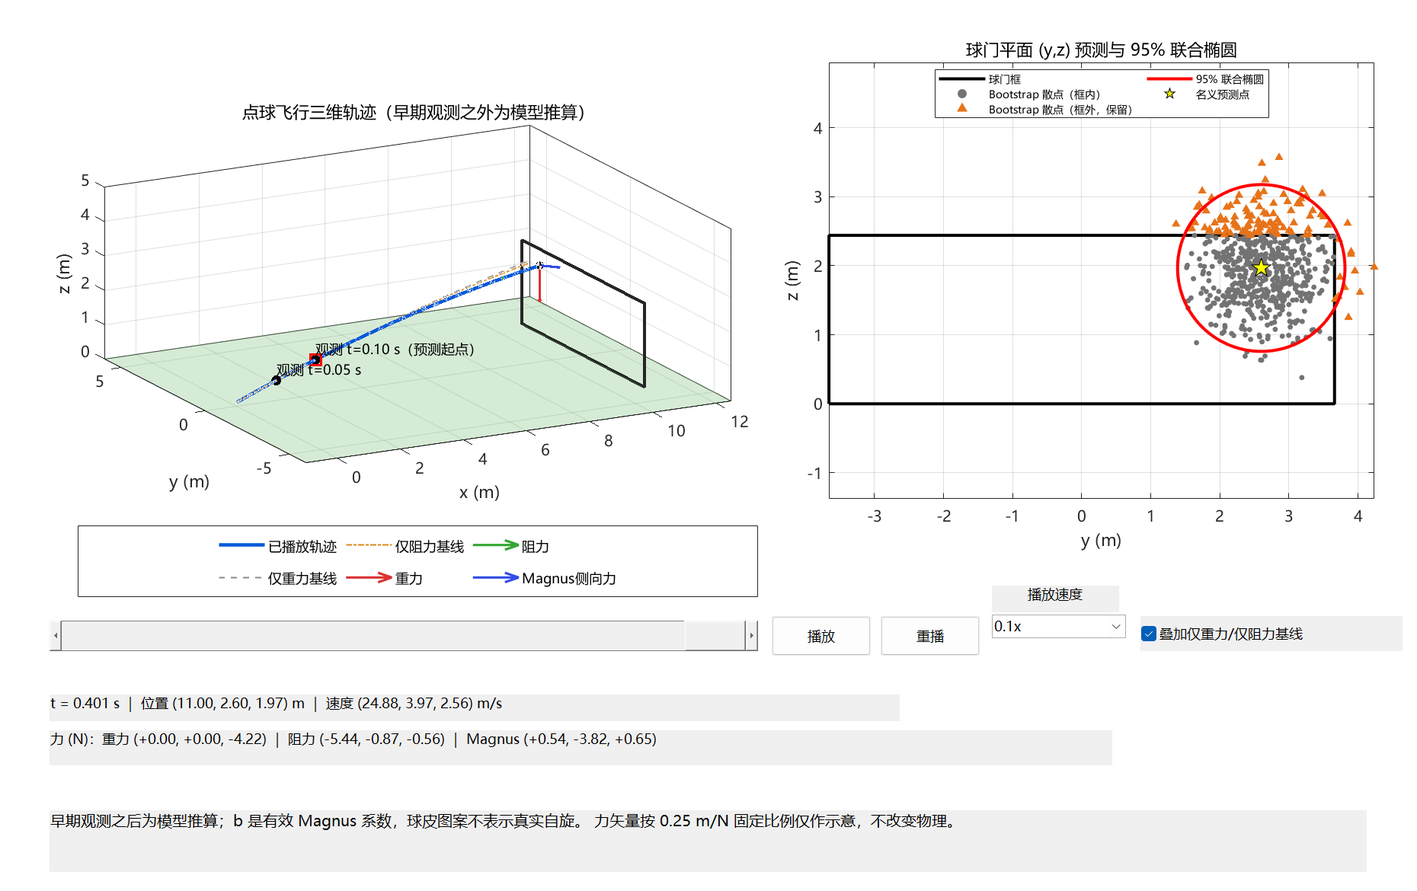
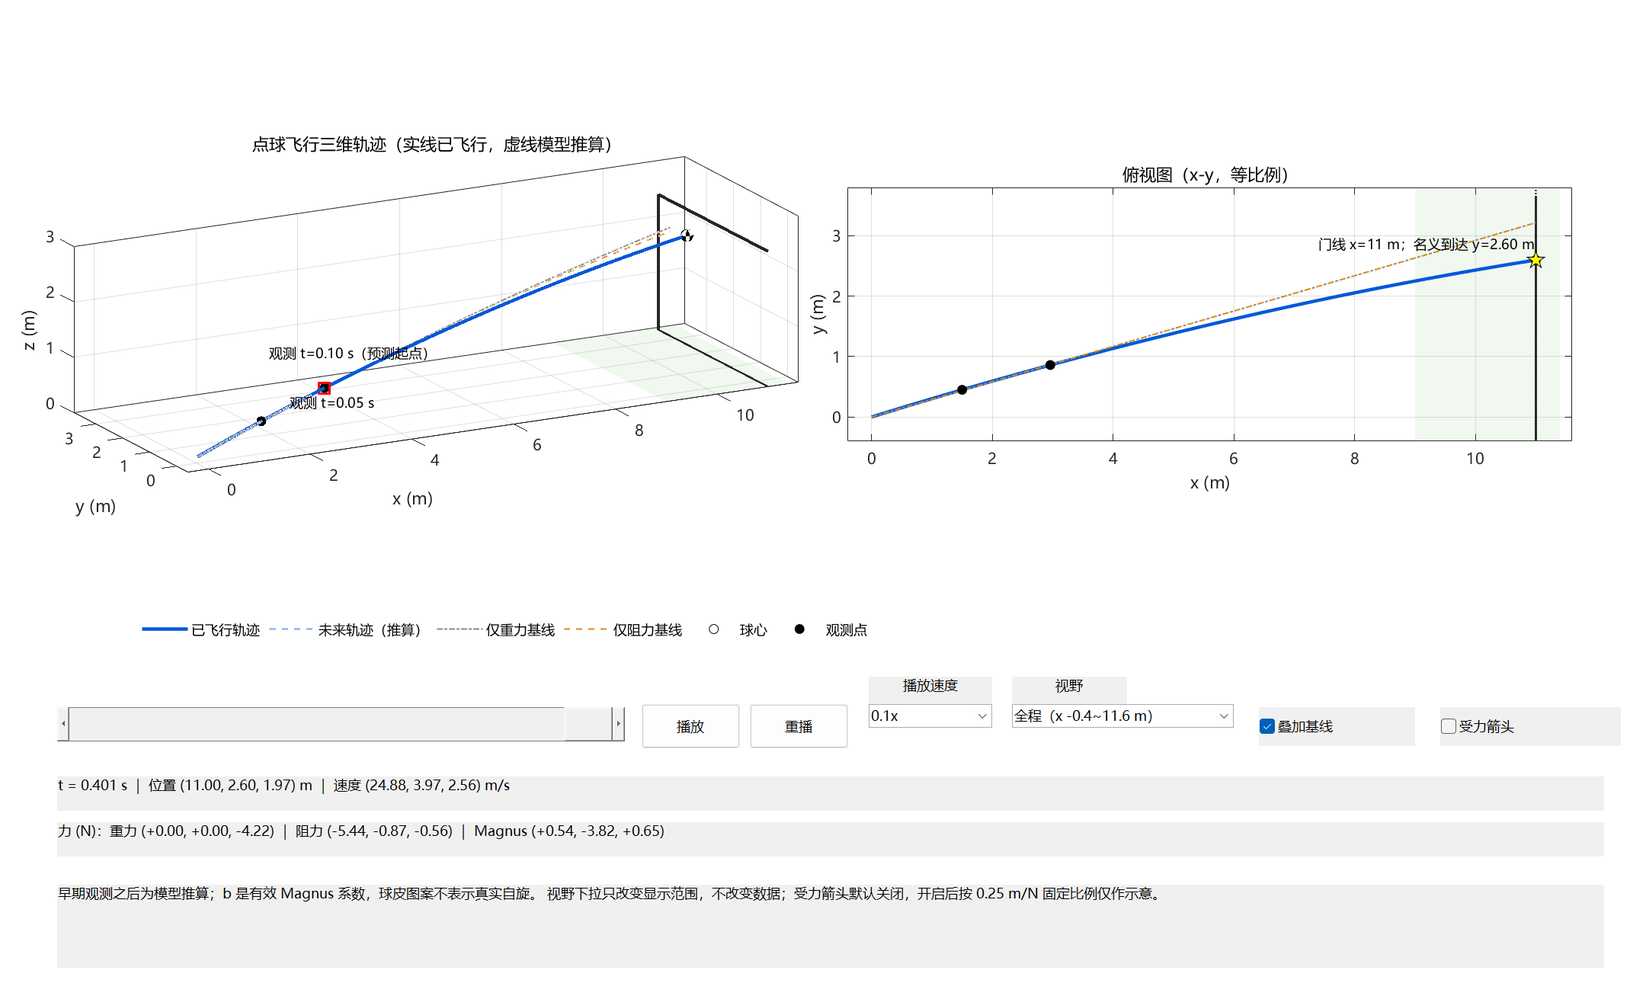
matlab仿真修改第一版，把右侧预测图删除

diff --git a/仿真/Matlab版/penalty_view.m b/仿真/Matlab版/penalty_view.m
@@ -46,92 +46,134 @@ assert(ePos < 1e-7 && eT < 1e-7, '终点与已有 JSON 不一致（%.3g m / %.3g
 pG = predictPlane(thetaG,cfg,xPlane,Tmax); pD = predictPlane(thetaD,cfg,xPlane,Tmax);
 SG = deval(pG.sol,linspace(0,tEndOf(pG,Tmax),160))'; SD = deval(pD.sol,linspace(0,tEndOf(pD,Tmax),160))';
 
-% ---------- 95% 联合椭圆（eig(C) 与固定 chi2 常数） ----------
-C = (res.uncertainty.C + res.uncertainty.C')/2;
-[Vv,Dd] = eig(C); [dd,ord] = sort(diag(Dd),'descend'); Vv = Vv(:,ord);
-axE = sqrt(5.991464547*max(dd,0)); te = linspace(0,2*pi,200);
-E = Vv*diag(axE)*[cos(te);sin(te)] + [res.prediction.yGoal;res.prediction.zGoal];
-bs = res.bootstrap.samples; nBS = numel(bs);
-bsY = nan(nBS,1); bsZ = bsY; bsOK = false(nBS,1);
-for k = 1:nBS  % JSON 中 null 解码为空，逐项容错读取
-    if ~isempty(bs(k).yGoal), bsY(k) = bs(k).yGoal; end
-    if ~isempty(bs(k).zGoal), bsZ(k) = bs(k).zGoal; end
-    if ~isempty(bs(k).ok), bsOK(k) = logical(bs(k).ok); end
-end
-bsValid = bsOK & isfinite(bsY) & isfinite(bsZ);
-inFrame = abs(bsY) <= goalHW & bsZ >= 0 & bsZ <= goalH;
-
-% ---------- 界面（经典 figure + uicontrol，export 时不可见） ----------
-fig = figure('Name','点球动态仿真','Color','w','Units','pixels','Position',[60 60 1240 780]);
+% ---------- 界面（三维 + 俯视双视图，export 时不可见） ----------
+fig = figure('Name','点球动态仿真','Color','w','Units','pixels','Position',[40 40 1440 860]);
 if isExport, set(fig,'Visible','off'); end
-ax3 = axes(fig,'Position',[0.055 0.48 0.48 0.38]);
-ax2 = axes(fig,'Position',[0.585 0.44 0.385 0.49]);
+ax3 = axes(fig,'Position',[0.045 0.42 0.44 0.52],'Tag','Trajectory3D');
+axTop = axes(fig,'Position',[0.515 0.42 0.44 0.52],'Tag','TrajectoryTop');
 hold(ax3,'on'); grid(ax3,'on'); box(ax3,'on'); view(ax3,-28,16);
-set([ax3 ax2],'FontName','Microsoft YaHei');
-patch(ax3,[-1 12.5 12.5 -1],[-6 -6 6 6],[0 0 0 0],[0.42 0.72 0.42],'EdgeColor','none','FaceAlpha',0.28);
-plot3(ax3,xPlane*ones(1,5),[-goalHW goalHW goalHW -goalHW -goalHW],[0 0 goalH goalH 0], ...
-    '-','Color',[0.15 0.15 0.15],'LineWidth',2);
-plot3(ax3,SAll(:,1),SAll(:,2),SAll(:,3),'--','Color',[0.55 0.68 0.9], ...
-    'LineWidth',1,'DisplayName','模型完整轨迹（推算/回放）');
+hold(axTop,'on'); grid(axTop,'on'); box(axTop,'on');
+set([ax3 axTop],'FontName','Microsoft YaHei');
+
+% 草坪：仅球门附近小范围淡色
+patch(ax3,[9 11.4 11.4 9],[-0.4 -0.4 3.8 3.8],[0 0 0 0],[0.42 0.72 0.42], ...
+    'FaceColor',[0.42 0.72 0.42],'EdgeColor','none','FaceAlpha',0.10, ...
+    'HandleVisibility','off');
+patch(axTop,[9 11.4 11.4 9],[-0.4 -0.4 3.8 3.8],[0.42 0.72 0.42], ...
+    'EdgeColor','none','FaceAlpha',0.10,'HandleVisibility','off');
+
+% 球门：只画落在视野内的相关部分（右立柱、横梁、门线）
+plot3(ax3,xPlane*[1 1],goalHW*[1 1],[0 goalH],'-','Color',[0.15 0.15 0.15], ...
+    'LineWidth',2,'HandleVisibility','off');
+plot3(ax3,xPlane*[1 1],[-0.4 goalHW],goalH*[1 1],'-','Color',[0.15 0.15 0.15], ...
+    'LineWidth',2,'HandleVisibility','off');
+plot3(ax3,xPlane*[1 1],[-0.4 goalHW],[0 0],'-','Color',[0.15 0.15 0.15], ...
+    'LineWidth',1.2,'HandleVisibility','off');
+plot(axTop,xPlane*[1 1],[-0.4 goalHW],'-','Color',[0.15 0.15 0.15], ...
+    'LineWidth',1.5,'HandleVisibility','off');
+
+% 完整 Magnus 轨迹：已飞行实线 / 未来浅蓝虚线（hFuture 初始即完整轨迹）
+hFuture = plot3(ax3,SAll(:,1),SAll(:,2),SAll(:,3),'--','Color',[0.55 0.72 0.92], ...
+    'LineWidth',1.2,'DisplayName','未来轨迹');
 hPlayed = plot3(ax3,SAll(1,1),SAll(1,2),SAll(1,3),'-','Color',[0 0.35 0.85], ...
-    'LineWidth',2.2,'DisplayName','已播放轨迹');
-hG = plot3(ax3,SG(:,1),SG(:,2),SG(:,3),'--','Color',[0.55 0.55 0.55], ...
-    'LineWidth',1,'DisplayName','仅重力基线（JSON v0）','Visible','off');
-hD = plot3(ax3,SD(:,1),SD(:,2),SD(:,3),'-.','Color',[0.85 0.55 0.1], ...
-    'LineWidth',1,'DisplayName','仅阻力基线（JSON v0/Cd）','Visible','off');
-plot3(ax3,obs(:,1),obs(:,2),obs(:,3),'ko','MarkerFaceColor','k','MarkerSize',6,'DisplayName','观测点');
+    'LineWidth',2.2,'DisplayName','已飞行轨迹');
+hG = plot3(ax3,SG(:,1),SG(:,2),SG(:,3),'-.','Color',[0.55 0.55 0.55], ...
+    'LineWidth',1,'DisplayName','仅重力基线','Visible','off');
+hD = plot3(ax3,SD(:,1),SD(:,2),SD(:,3),'--','Color',[0.85 0.55 0.1], ...
+    'LineWidth',1,'DisplayName','仅阻力基线','Visible','off');
+hFutureTop = plot(axTop,SAll(:,1),SAll(:,2),'--','Color',[0.55 0.72 0.92], ...
+    'LineWidth',1.2,'HandleVisibility','off');
+hPlayedTop = plot(axTop,SAll(1,1),SAll(1,2),'-','Color',[0 0.35 0.85], ...
+    'LineWidth',2.2,'HandleVisibility','off');
+hGTop = plot(axTop,SG(:,1),SG(:,2),'-.','Color',[0.55 0.55 0.55], ...
+    'LineWidth',1,'Visible','off','HandleVisibility','off');
+hDTop = plot(axTop,SD(:,1),SD(:,2),'--','Color',[0.85 0.55 0.1], ...
+    'LineWidth',1,'Visible','off','HandleVisibility','off');
+
+% 观测点（两处文字偏移不同，避免互相遮挡）
+hObs = plot3(ax3,obs(:,1),obs(:,2),obs(:,3),'ko','MarkerFaceColor','k', ...
+    'MarkerSize',6,'DisplayName','观测点');
 plot3(ax3,obs(2,1),obs(2,2),obs(2,3),'rs','MarkerSize',9,'LineWidth',1.5, ...
-    'DisplayName','0.1 s 预测起点');
-text(ax3,obs(1,1),obs(1,2),obs(1,3)+0.35,'观测 t=0.05 s','FontName','Microsoft YaHei','FontSize',9);
-text(ax3,obs(2,1),obs(2,2),obs(2,3)+0.35,'观测 t=0.10 s（预测起点）','FontName','Microsoft YaHei','FontSize',9);
+    'HandleVisibility','off');
+plot(axTop,obs(:,1),obs(:,2),'ko','MarkerFaceColor','k','MarkerSize',6, ...
+    'HandleVisibility','off');
+text(ax3,obs(1,1)+0.10,obs(1,2)-0.85,obs(1,3)+0.55,'观测 t=0.05 s', ...
+    'FontName','Microsoft YaHei','FontSize',9,'Clipping','on');
+text(ax3,obs(2,1)-0.45,obs(2,2)+1.20,obs(2,3)+0.40,'观测 t=0.10 s（预测起点）', ...
+    'FontName','Microsoft YaHei','FontSize',9,'Clipping','on');
 % 足球：真实半径 R、固定黑白图案、不旋转（不虚构角速度）
 [Xb,Yb,Zb] = sphere(20); ang = atan2(Yb,Xb);
 Cb = 0.92*ones(size(Zb)); Cb(mod(floor((ang+pi)/(pi/4)) + (Zb>0),2)==0) = 0.04;
 hBall = surf(ax3,cfg.r0(1)+R*Xb,cfg.r0(2)+R*Yb,cfg.r0(3)+R*Zb,Cb,'EdgeColor','none', ...
-    'DisplayName','球体（半径 R=0.11 m）'); colormap(ax3,gray(64));
-sc = 0.25;  % 力矢量固定比例 m/N（仅示意，不改物理）
-hqG = quiver3(ax3,0,0,0,0,0,0,0,'Color',[0.85 0.2 0.2],'LineWidth',1.6,'DisplayName','重力矢量（0.25 m/N 示意）');
-hqD = quiver3(ax3,0,0,0,0,0,0,0,'Color',[0.2 0.65 0.2],'LineWidth',1.6,'DisplayName','阻力矢量（0.25 m/N 示意）');
-hqM = quiver3(ax3,0,0,0,0,0,0,0,'Color',[0.2 0.3 0.9],'LineWidth',1.6,'DisplayName','Magnus 矢量（0.25 m/N 示意）');
-xlabel(ax3,'x (m)'); ylabel(ax3,'y (m)'); zlabel(ax3,'z (m)'); lg3=legend(ax3,[hPlayed hG hD hqG hqD hqM],{'已播放轨迹','仅重力基线','仅阻力基线','重力','阻力','Magnus侧向力'},'FontSize',9,'NumColumns',3); set(lg3,'Units','normalized','Position',[.055 .33 .48 .08],'AutoUpdate','off');
-title(ax3,'点球飞行三维轨迹（早期观测之外为模型推算）','FontName','Microsoft YaHei');
-xlim(ax3,[-1 12.5]); ylim(ax3,[-6 6]); zlim(ax3,[0 5]); daspect(ax3,[1 1 1]);
+    'HandleVisibility','off'); colormap(ax3,gray(64));
+hCenterLegend = plot3(ax3,nan,nan,nan,'o','MarkerSize',6,'MarkerEdgeColor','k','MarkerFaceColor','w');
+hBallTop = plot(axTop,cfg.r0(1),cfg.r0(2),'o','MarkerSize',6, ...
+    'MarkerFaceColor',[0 0.35 0.85],'MarkerEdgeColor','k','HandleVisibility','off');
 
-hold(ax2,'on'); grid(ax2,'on'); box(ax2,'on');
-plot(ax2,[-goalHW goalHW goalHW -goalHW -goalHW],[0 0 goalH goalH 0],'k-','LineWidth',2, ...
-    'DisplayName','球门框');
-scatter(ax2,bsY(bsValid&inFrame),bsZ(bsValid&inFrame),12,[0.45 0.45 0.45],'filled','DisplayName','Bootstrap 散点（框内）');
-scatter(ax2,bsY(bsValid&~inFrame),bsZ(bsValid&~inFrame),24,[0.9 0.45 0.1],'^','filled','DisplayName','Bootstrap 散点（框外，保留）');
-plot(ax2,E(1,:),E(2,:),'r-','LineWidth',2,'DisplayName','95% 联合椭圆');
-plot(ax2,res.prediction.yGoal,res.prediction.zGoal,'kp','MarkerFaceColor','y','MarkerSize',13, ...
-    'DisplayName','名义预测点');
-xlabel(ax2,'y (m)'); ylabel(ax2,'z (m)'); axis(ax2,'equal');
-title(ax2,'球门平面 (y,z) 预测与 95% 联合椭圆','FontName','Microsoft YaHei');
-legend(ax2,'Location','best','FontSize',7,'NumColumns',2);
+% 受力箭头（默认关闭；开启后按 0.25 m/N 固定比例示意）
+sc = 0.25;
+hqG = quiver3(ax3,0,0,0,0,0,0,0,'Color',[0.85 0.2 0.2],'LineWidth',1.6,'HandleVisibility','off');
+hqD = quiver3(ax3,0,0,0,0,0,0,0,'Color',[0.2 0.65 0.2],'LineWidth',1.6,'HandleVisibility','off');
+hqM = quiver3(ax3,0,0,0,0,0,0,0,'Color',[0.2 0.3 0.9],'LineWidth',1.6,'HandleVisibility','off');
+set([hqG hqD hqM],'Visible','off');
 
-% ---------- 控件（底部独立区域，不遮挡 axes） ----------
-hSlider = uicontrol(fig,'Style','slider','Units','normalized','Position',[0.035 0.268 0.50 0.035], ...
-    'Min',0,'Max',pNom.tCross,'Value',0,'Callback',@cbSlider);
-hPlay = uicontrol(fig,'Style','pushbutton','Units','normalized','Position',[0.545 0.263 0.07 0.045], ...
-    'String','播放','Callback',@cbPlay,'FontName','Microsoft YaHei','FontSize',9);
-uicontrol(fig,'Style','pushbutton','Units','normalized','Position',[0.622 0.263 0.07 0.045], ...
-    'String','重播','Callback',@cbReplay,'FontName','Microsoft YaHei','FontSize',9);
-uicontrol(fig,'Style','text','Units','normalized','Position',[0.70 0.312 0.09 0.03], ...
+% 俯视图：门线 x=11 与名义到达点
+plot(axTop,xPlane*[1 1],[-0.4 3.8],':','Color',[0.2 0.2 0.2],'LineWidth',1.2, ...
+    'HandleVisibility','off');
+plot(axTop,xPlane,res.prediction.yGoal,'p','MarkerSize',12,'MarkerFaceColor','y', ...
+    'MarkerEdgeColor','k','HandleVisibility','off');
+text(axTop,xPlane-3.6,res.prediction.yGoal+0.28,sprintf('门线 x=11 m；名义到达 y=%.2f m', ...
+    res.prediction.yGoal),'FontName','Microsoft YaHei','FontSize',9);
+
+xlabel(ax3,'x (m)'); ylabel(ax3,'y (m)'); zlabel(ax3,'z (m)');
+title(ax3,'点球飞行三维轨迹（实线已飞行，虚线模型推算）','FontName','Microsoft YaHei');
+xlabel(axTop,'x (m)'); ylabel(axTop,'y (m)');
+title(axTop,'俯视图（x-y，等比例）','FontName','Microsoft YaHei');
+
+% 共享图例：放在两图下方、控件上方；只列 6 项
+lg = legend(ax3,[hPlayed hFuture hG hD hCenterLegend hObs], ...
+    {'已飞行轨迹','未来轨迹（推算）','仅重力基线','仅阻力基线','球心','观测点'}, ...
+    'Orientation','horizontal','NumColumns',6,'FontSize',9);
+set(lg,'Units','normalized','Position',[0.045 0.335 0.91 0.05], ...
+    'AutoUpdate','off','Box','off');
+
+% ---------- 控件（底部控制区，不遮挡 axes） ----------
+hSlider = uicontrol(fig,'Style','slider','Tag','TimeSlider','Units','normalized', ...
+    'Position',[0.035 0.245 0.345 0.035],'Min',0,'Max',pNom.tCross,'Value',0, ...
+    'Callback',@cbSlider);
+hPlay = uicontrol(fig,'Style','pushbutton','Tag','PlayButton','Units','normalized', ...
+    'Position',[0.390 0.238 0.060 0.045],'String','播放','Callback',@cbPlay, ...
+    'FontName','Microsoft YaHei','FontSize',9);
+uicontrol(fig,'Style','pushbutton','Tag','ReplayButton','Units','normalized', ...
+    'Position',[0.456 0.238 0.060 0.045],'String','重播','Callback',@cbReplay, ...
+    'FontName','Microsoft YaHei','FontSize',9);
+uicontrol(fig,'Style','text','Units','normalized','Position',[0.528 0.283 0.075 0.028], ...
     'String','播放速度','FontName','Microsoft YaHei','FontSize',9);
-uicontrol(fig,'Style','popupmenu','Units','normalized','Position',[0.70 0.265 0.095 0.045], ...
-    'String',{'0.05x','0.1x','0.25x','1x'},'Value',2,'Callback',@cbSpeed, ...
-    'FontName','Microsoft YaHei','FontSize',9);
-hCmp = uicontrol(fig,'Style','checkbox','Units','normalized','Position',[0.805 0.268 0.185 0.04], ...
-    'String','叠加仅重力/仅阻力基线','Value',0,'Callback',@cbCmp, ...
-    'FontName','Microsoft YaHei','FontSize',9);
-hTL = uicontrol(fig,'Style','text','Units','normalized','Position',[0.035 0.19 0.60 0.03], ...
+uicontrol(fig,'Style','popupmenu','Tag','SpeedSelect','Units','normalized', ...
+    'Position',[0.528 0.238 0.075 0.045],'String',{'0.05x','0.1x','0.25x','1x'}, ...
+    'Value',2,'Callback',@cbSpeed,'FontName','Microsoft YaHei','FontSize',9);
+uicontrol(fig,'Style','text','Units','normalized','Position',[0.615 0.283 0.070 0.028], ...
+    'String','视野','FontName','Microsoft YaHei','FontSize',9);
+uicontrol(fig,'Style','popupmenu','Tag','ViewSelect','Units','normalized', ...
+    'Position',[0.615 0.238 0.135 0.045], ...
+    'String',{'全程（x -0.4~11.6 m）','末段放大（x 7~11.6 m）'},'Value',1, ...
+    'Callback',@cbView,'FontName','Microsoft YaHei','FontSize',9);
+hView = findobj(fig,'Tag','ViewSelect');
+hCmp = uicontrol(fig,'Style','checkbox','Tag','BaselineToggle','Units','normalized', ...
+    'Position',[0.765 0.240 0.095 0.040],'String','叠加基线','Value',0, ...
+    'Callback',@cbCmp,'FontName','Microsoft YaHei','FontSize',9);
+hForce = uicontrol(fig,'Style','checkbox','Tag','ForceToggle','Units','normalized', ...
+    'Position',[0.875 0.240 0.110 0.040],'String','受力箭头','Value',0, ...
+    'Callback',@cbForce,'FontName','Microsoft YaHei','FontSize',9);
+hTL = uicontrol(fig,'Style','text','Units','normalized','Position',[0.035 0.175 0.94 0.035], ...
     'String','t = 0 s','FontName','Microsoft YaHei','FontSize',9,'HorizontalAlignment','left');
-hFL = uicontrol(fig,'Style','text','Units','normalized','Position',[0.035 0.14 0.75 0.04], ...
+hFL = uicontrol(fig,'Style','text','Units','normalized','Position',[0.035 0.128 0.94 0.035], ...
     'String','力 (N)','FontName','Microsoft YaHei','FontSize',9,'HorizontalAlignment','left');
-uicontrol(fig,'Style','text','Units','normalized','Position',[0.035 0.02 0.93 0.07], ...
+uicontrol(fig,'Style','text','Units','normalized','Position',[0.035 0.015 0.94 0.085], ...
     'String',['早期观测之后为模型推算；b 是有效 Magnus 系数，球皮图案不表示真实自旋。' ...
-    ' 力矢量按 0.25 m/N 固定比例仅作示意，不改变物理。'], ...
-    'FontName','Microsoft YaHei','FontSize',10,'HorizontalAlignment','left');
+    ' 视野下拉只改变显示范围，不改变数据；受力箭头默认关闭，开启后按 0.25 m/N 固定比例仅作示意。'], ...
+    'FontName','Microsoft YaHei','FontSize',9,'HorizontalAlignment','left');
+applyView(1);
 playing = false; speed = 0.1; t0 = 0; tClock = tic; timerH = [];
 set(fig,'CloseRequestFcn',@cbClose); updateFrame(0);
 if ~isExport
@@ -146,7 +188,9 @@ end
 % ---------- export：GIF、最终 PNG、时序 CSV、验证 JSON ----------
 gifPath = fullfile(outImgDir,'点球物理仿真.gif'); pngPath = fullfile(outImgDir,'点球仿真全景.png');
 csvPath = fullfile(outDataDir,'点球仿真时序.csv'); verPath = fullfile(outDataDir,'点球仿真验证.json');
-set([hG hD],'Visible','on'); set(hCmp,'Value',1);
+set(hCmp,'Value',1); cbCmp(hCmp);               % 导出：基线开启
+set(hForce,'Value',0); cbForce(hForce);         % 导出：箭头关闭
+set(hView,'Value',1); cbView(hView);             % 导出：全程
 nF = 80; gifDur = 4; tmpDir = [tempname '_Frames']; mkdir(tmpDir);
 for k = 1:nF
     updateFrame(tAll(end)*(k-1)/(nF-1)); drawnow;
@@ -181,6 +225,10 @@ ver.theta = theta;
 ver.effectiveMagnusCoefficient = struct('bx',cfg.bx,'by',theta(5),'bz',theta(6),'unit','1/s');
 ver.baselines = struct('gravityV0',thetaG(1:3),'dragV0Cd',thetaD([1 2 3 4]));
 ver.forceArrowScale_mPerN = sc;
+ver.viewLayout = '3D+XY'; ver.predictionPanel = false;
+ver.viewRanges = struct('full',struct('x',[-0.4 11.6],'y',[-0.4 3.8],'z',[0 3]), ...
+    'zoom',struct('x',[7 11.6],'y',[1.3 3.7],'z',[1.2 2.8]));
+ver.viewUsedExport = 'full';
 ver.units = '位置 m；速度 m/s；时间 s；力 N';
 ver.frames = nF; ver.gifNominalDuration_s = gifDur; ver.gifDelay_s = gifDur/nF;
 ver.outputs = struct('gif',gifPath,'png',pngPath,'csv',csvPath,'json',verPath);
@@ -197,8 +245,15 @@ fprintf('[penalty_view] export 完成：观测误差 %.3g m，终点误差 %.3g 
     function updateFrame(tNow)
         tNow = min(max(tNow,0),tAll(end)); sNow = deval(pNom.sol,tNow)';
         set(hBall,'XData',sNow(1)+R*Xb,'YData',sNow(2)+R*Yb,'ZData',sNow(3)+R*Zb);
+        set(hBallTop,'XData',sNow(1),'YData',sNow(2));
+        % 过去实线：到 tNow 为止，末点追加当前点；未来虚线：从当前点到终点，不重复覆盖
         k = find(tAll <= tNow + 1e-12,1,'last'); if isempty(k), k = 1; end
-        set(hPlayed,'XData',SAll(1:k,1),'YData',SAll(1:k,2),'ZData',SAll(1:k,3));
+        Spast = [[SAll(1:k,1);sNow(1)],[SAll(1:k,2);sNow(2)],[SAll(1:k,3);sNow(3)]];
+        Sfut = [[sNow(1);SAll(k+1:end,1)],[sNow(2);SAll(k+1:end,2)],[sNow(3);SAll(k+1:end,3)]];
+        set(hPlayed,'XData',Spast(:,1),'YData',Spast(:,2),'ZData',Spast(:,3));
+        set(hFuture,'XData',Sfut(:,1),'YData',Sfut(:,2),'ZData',Sfut(:,3));
+        set(hPlayedTop,'XData',Spast(:,1),'YData',Spast(:,2));
+        set(hFutureTop,'XData',Sfut(:,1),'YData',Sfut(:,2));
         set(hSlider,'Value',tNow);
         [~,F] = ball_rhs(tNow,sNow(:),theta,cfg);
         set(hqG,'XData',sNow(1),'YData',sNow(2),'ZData',sNow(3),'UData',sc*F.gravity(1),'VData',sc*F.gravity(2),'WData',sc*F.gravity(3));
@@ -209,6 +264,28 @@ fprintf('[penalty_view] export 完成：观测误差 %.3g m，终点误差 %.3g 
         set(hFL,'String',sprintf(['力 (N)：重力 (%+.2f, %+.2f, %+.2f) ｜ ' ...
             '阻力 (%+.2f, %+.2f, %+.2f) ｜ Magnus (%+.2f, %+.2f, %+.2f)'], ...
             F.gravity,F.drag,F.magnus));
+    end
+
+    function applyView(idx)
+        % 只改变显示范围，不改变任何数据
+        if idx == 1
+            xr = [-0.4 11.6]; yr = [-0.4 3.8]; zr = [0 3];
+        else
+            xr = [7 11.6];    yr = [1.3 3.7]; zr = [1.2 2.8];
+        end
+        xlim(ax3,xr); ylim(ax3,yr); zlim(ax3,zr);
+        pbaspect(ax3,[diff(xr) diff(yr) diff(zr)]);   % 1:1:1 单位比例，量程不被拉伸
+        xlim(axTop,xr); ylim(axTop,yr);
+        pbaspect(axTop,[diff(xr) diff(yr) 1]);        % 俯视等比例，量程保持不变
+    end
+
+    function cbView(src,~)
+        applyView(get(src,'Value'));
+    end
+
+    function cbForce(src,~)
+        onoff = 'off'; if get(src,'Value'), onoff = 'on'; end
+        set([hqG hqD hqM],'Visible',onoff);
     end
 
     function cbPlay(~,~)
@@ -248,7 +325,7 @@ fprintf('[penalty_view] export 完成：观测误差 %.3g m，终点误差 %.3g 
 
     function cbCmp(src,~)
         onoff = 'off'; if get(src,'Value'), onoff = 'on'; end
-        set([hG hD],'Visible',onoff);
+        set([hG hD hGTop hDTop],'Visible',onoff);  % 三维与俯视图同步
     end
 
     function cbClose(~,~)

diff --git a/latex/knowledge/B题建模与验证.md b/latex/knowledge/B题建模与验证.md
@@ -94,12 +94,16 @@ MATLAB主入口为 `仿真/Matlab版/penalty.m`：函数文件名采用MATLAB合
 
 动态演示采用已安装的MATLAB R2024a原生三维绘图。计算对象仍是球心状态r、v，球体表面是显示用途；不通过随意设定球皮旋转来暗示测得了自旋。主计算与演示共同调用 `仿真/Matlab版/ball_rhs.m`，使重力、平方阻力和有效Magnus项保持同一来源。
 
-从已拟合初速度出发积分牛顿方程，再按播放时间查询积分解，逐帧更新球心、已飞行轨迹和力箭头。改变播放速度只改变显示速度，不改变积分的物理时间。力箭头使用固定的显示比例，数值面板给出牛顿单位。球门平面图同时显示拟合落点、局部联合95%区域和保留框外点的bootstrap分布，以便同时理解“轨迹怎样弯曲”和“预测有多不确定”。
+从已拟合初速度出发积分牛顿方程，再按播放时间查询积分解，逐帧更新球心、已飞行轨迹和力箭头。改变播放速度只改变显示速度，不改变积分的物理时间。力箭头使用固定的显示比例，数值面板给出牛顿单位。演示采用同步三维视图和x-y俯视图；不确定性仍在正式计算和论文中讨论，动态界面专注轨迹细节。
 
-浅色完整曲线是模型推算，不是额外测得的数据。两个实测坐标保持原值，对照基线各自采用已有拟合参数。三条模型曲线的差异体现受力假设的影响，不能当成三个真实射门的比较。完整模型的轨迹在观测之外仍受模型假设限制。
+浅色虚线表示尚未播放的模型推算段，深色实线表示已播放段，两段只在当前球心相接，避免重复覆盖。两个实测坐标保持原值，对照基线各自采用已有拟合参数。三条模型曲线的差异体现受力假设的影响，不能当成三个真实射门的比较。完整模型的轨迹在观测之外仍受模型假设限制。
 
 交互入口：在项目根的MATLAB命令窗口执行 `addpath('仿真/Matlab版'); penalty_view;`。导出入口为 `penalty_view('export')`，生成中文名GIF、PNG与时序数据；不重新反演，不覆盖论文计算结果。仿真图是教学演示，论文正式配图仍使用原来的无标题图。
 
 图形接口参考MathWorks官方文档：[timer](https://www.mathworks.com/help/matlab/ref/timer.html)、[getframe](https://www.mathworks.com/help/matlab/ref/getframe.html)。GUI内部定时器只负责播放调度，数值轨迹由ODE积分给出；关闭窗口应释放其自己的定时器。
 
 动态仿真已实际运行验证：三力之和/质量与ODE加速度一致；观测位置最大偏差2.15e-11 m，落点相对正式JSON偏差1.37e-11 m，时刻偏差5.35e-13 s。已检查拖动、暂停、继续、播放完成、比较基线开关、关闭清理；GIF为80帧约4秒，时序CSV为80行。上述小偏差只说明显示与计算一致，不是现实预测精度。
+
+视野可在全程与末段放大之间切换；两视图同步缩放真实坐标，不人为平移基线或放大曲率。受力箭头默认隐藏，按需打开；比较基线开关同时作用于三维与俯视图。
+
+双视图版已验证：仅有三维和俯视两个坐标区，0.10 s时实线末端与虚线起点重合于题给位置；末段放大与全程切换同步；基线/箭头开关、暂停续播、重播和关闭清理通过。导出仍为80帧，名义轨迹观测误差和终点偏差与此前一致。两条基线在俯视图中仍可能自然重合，因为重力和沿速度方向的阻力不会单独产生横向转弯，不应人为错开曲线。

diff --git a/项目进度/项目进度.md b/项目进度/项目进度.md
@@ -1,6 +1,6 @@
 # UPC 项目进度
 
-最后更新：2026-11-07 10:38（北京时间）
+最后更新：2026-11-07（北京时间）
 
 当前阶段：已选择B题，完成物理模型、正式计算与数值验证；中英文10页LaTeX审阅稿已编译并完成实际页面核查，统一复现入口已实跑通过。
 
@@ -13,7 +13,7 @@
 
 ## 已完成
 
-- 点球动态仿真已实现并运行：MATLAB三维球体、同源受力箭头、双观测标记、球门不确定性视图、播放/暂停/时间拖动/倍速/基线比较。交互回调与关闭清理检查通过；动画导出80帧，观测和落点与正式计算一致到1e-7 m以内。入口仿真/Matlab版/penalty_view.m，原理和使用说明见现有B题knowledge。
+- MATLAB动态仿真已改为同步三维轨迹与x-y俯视图，移除预测分布面板；全程/末段放大、过去实线/未来虚线分段、基线与受力箭头开关已实跑验证。当前入口仿真/Matlab版/penalty_view.m，导出位于该版img和data内；积分和落点未变。
 
 - 官方A/B题与镜像核对后选择B题：其观测和验证链更明确，A题缺失初速方向/推进/安全参数。该选择不是获奖保证。
 - MATLAB R2024a作为主力，Python/SciPy作为独立数值复核；已实际通过Claude Code调用DeepSeek deepseek-v4-flash进行MATLAB实现和中文稿翻译，Codex审查修正关键逻辑。

diff --git a/提交文件夹/readme.md b/提交文件夹/readme.md
@@ -1,0 +1,1 @@
+此文件夹用于存放最终提交的内容，然后再把此README删除（git如果不在文件夹内存放文件，则上传时会自动把该文件夹进行删除）
